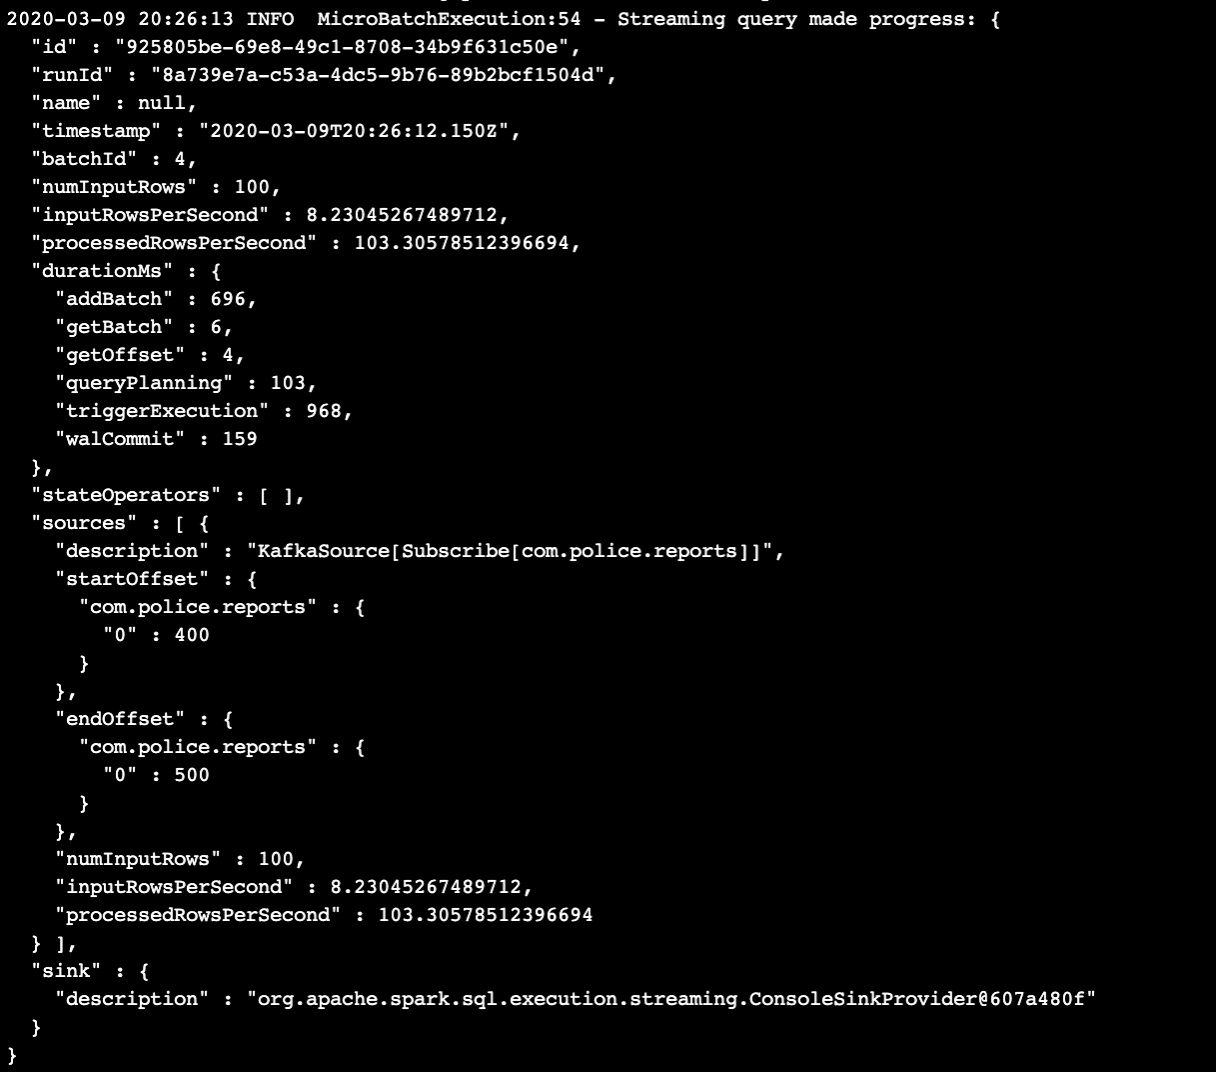
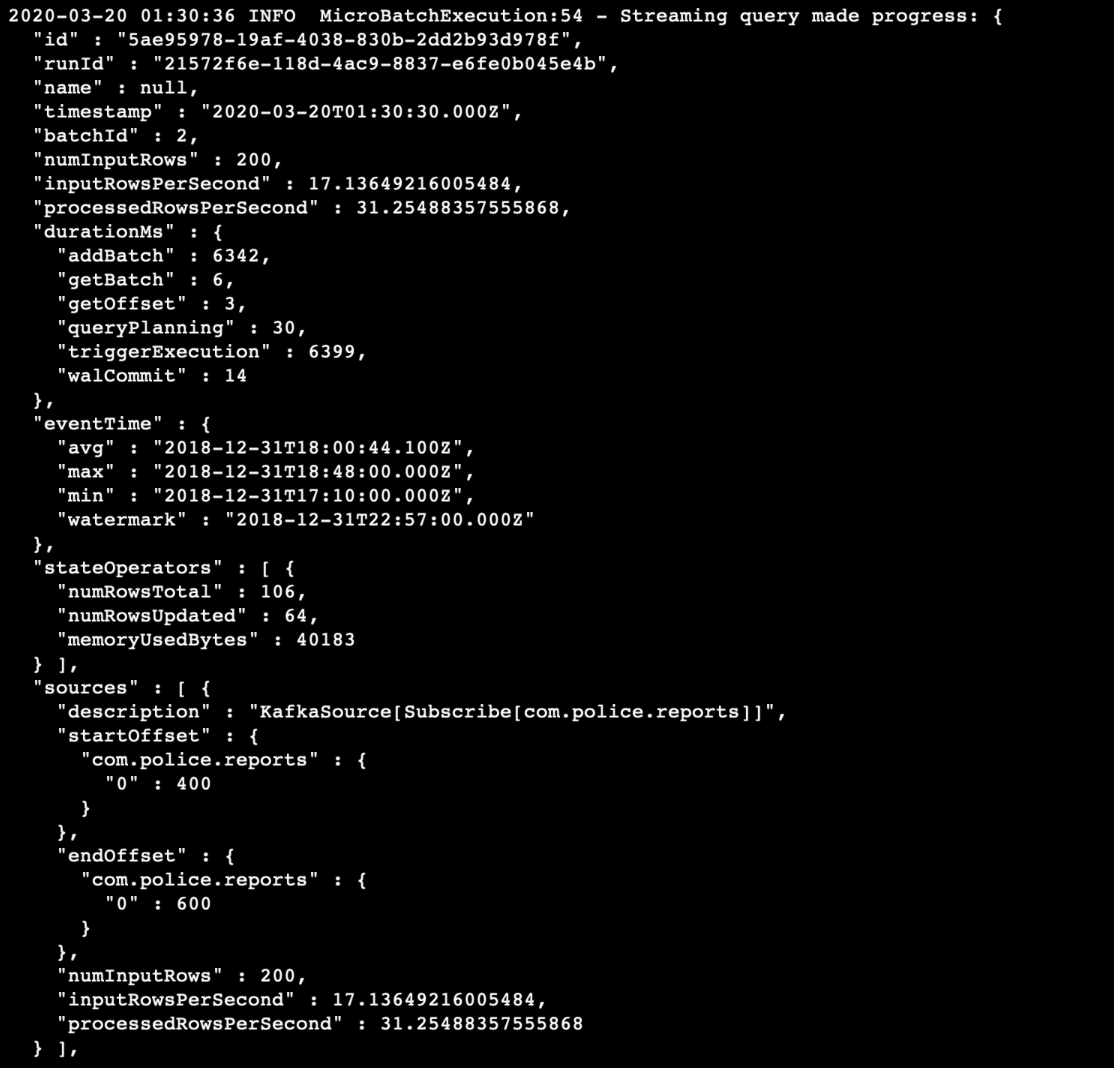
update data stream and report

Changed region(s): [[0.0, 0.0, 0.8851, 0.7416], [0.0305, 0.7416, 0.8851, 0.9888]]

diff --git a/data_stream.py b/data_stream.py
@@ -4,6 +4,7 @@ from pyspark.sql import SparkSession
 from pyspark.sql.types import *
 import pyspark.sql.functions as psf
 
+PROCESSING_TIME = '15 seconds'
 
 # TODO Create a schema for incoming resources
 schema = StructType([
@@ -28,14 +29,21 @@ def run_spark_job(spark):
     # TODO Create Spark Configuration
     # Create Spark configurations with max offset of 200 per trigger
     # set up correct bootstrap server and port
+    
+    spark.conf.set("spark.executor.memory", '8g')
+    spark.conf.set('spark.executor.cores', '3')
+
+#     spark.conf.set('spark.cores.max', '3')
     df = spark \
         .readStream \
         .format("kafka") \
         .option("subscribe", "com.police.reports") \
         .option("kafka.bootstrap.servers", "localhost:9092") \
         .option("startingOffsets", "earliest") \
-        .option("maxOffsetsPerTrigger", 100) \
+        .option("maxOffsetsPerTrigger", 200) \
         .option("stopGracefullyOnShutdown", "true") \
+        .option("maxRatePerPartition", 10) \
+        .option("backpressure.enabled", "true") \
         .load();
 
     # Show schema for the incoming resources for checks
@@ -52,7 +60,9 @@ def run_spark_job(spark):
     service_table.printSchema()
     
     # TODO select original_crime_type_name and disposition
-    distinct_table = service_table.select(["original_crime_type_name", "disposition"]) 
+    distinct_table = service_table \
+                     .withWatermark("call_date_time", "60 minutes") \
+                     .select(["original_crime_type_name", "disposition"]) 
 
     
     # count the number of original crime type
@@ -64,12 +74,12 @@ def run_spark_job(spark):
                   .outputMode("complete")\
                   .format("console")\
                   .option("truncate", "false")\
-                  .trigger(processingTime='10 seconds')\
+                  .trigger(processingTime=PROCESSING_TIME)\
                   .start()
 
 
     # TODO attach a ProgressReporter
-#     query.awaitTermination()
+#     print(query.lastProgress)
 
 #     # TODO get the right radio code json path
     radio_code_json_filepath = "radio_code.json"
@@ -89,7 +99,7 @@ def run_spark_job(spark):
                        .outputMode("append")\
                        .format("console")\
                        .option("truncate", "false")\
-                       .trigger(processingTime='10 seconds')\
+                       .trigger(processingTime=PROCESSING_TIME)\
                        .start()
 
     query.awaitTermination()
@@ -104,6 +114,7 @@ if __name__ == "__main__":
         .builder \
         .master("local[*]") \
         .appName("KafkaSparkStructuredStreaming") \
+        .config("spark.ui.port", "3000") \
         .getOrCreate()
 
     spark.sparkContext.setLogLevel("WARN")
@@ -113,3 +124,4 @@ if __name__ == "__main__":
     run_spark_job(spark)
 
     spark.stop()
+

diff --git a/README.md b/README.md
@@ -2,5 +2,41 @@
 
 ## How did changing values on the SparkSession property parameters affect the throughput and latency of the data?
 
+I use `maxOffsetsPerTrigger` to impact the throughput and latency of the data.
+
+The higher this value is, the more rows are processed per seconds but also the more delay increases.
+
+I monitor the performance using the progressReport parameters `inputRowsPerSecond`, `processedRowsPerSecond` and `durationMs`, specifically the value of `triggerExecution`
+
+For example,
+
+For a `maxOffsetsPerTrigger` value of 200, i get:
+  "inputRowsPerSecond" : 11.667250029168125,
+  "processedRowsPerSecond" : 24.786218862312552,
+  "durationMs" : {
+    "addBatch" : 7964,
+    "getBatch" : 6,
+    "getOffset" : 5,
+    "queryPlanning" : 42,
+    "triggerExecution" : 8069,
+    "walCommit" : 48
+  }
+
+For a `maxOffsetsPerTrigger` value of 1000, i get:
+  "inputRowsPerSecond" : 57.23115664167573,
+  "processedRowsPerSecond" : 128.0737704918033,
+  "durationMs" : {
+    "addBatch" : 7689,
+    "getBatch" : 8,
+    "getOffset" : 10,
+    "queryPlanning" : 41,
+    "triggerExecution" : 7808,
+    "walCommit" : 52
+  },
+
+
+In the above comparison, both batches take about similar time to execute (`triggerExecution` ~ 8s) but one had 200 rows and the other had 1000
+
+
 ## What were the 2-3 most efficient SparkSession property key/value pairs? Through testing multiple variations on values, how can you tell these were the most optimal?
 
